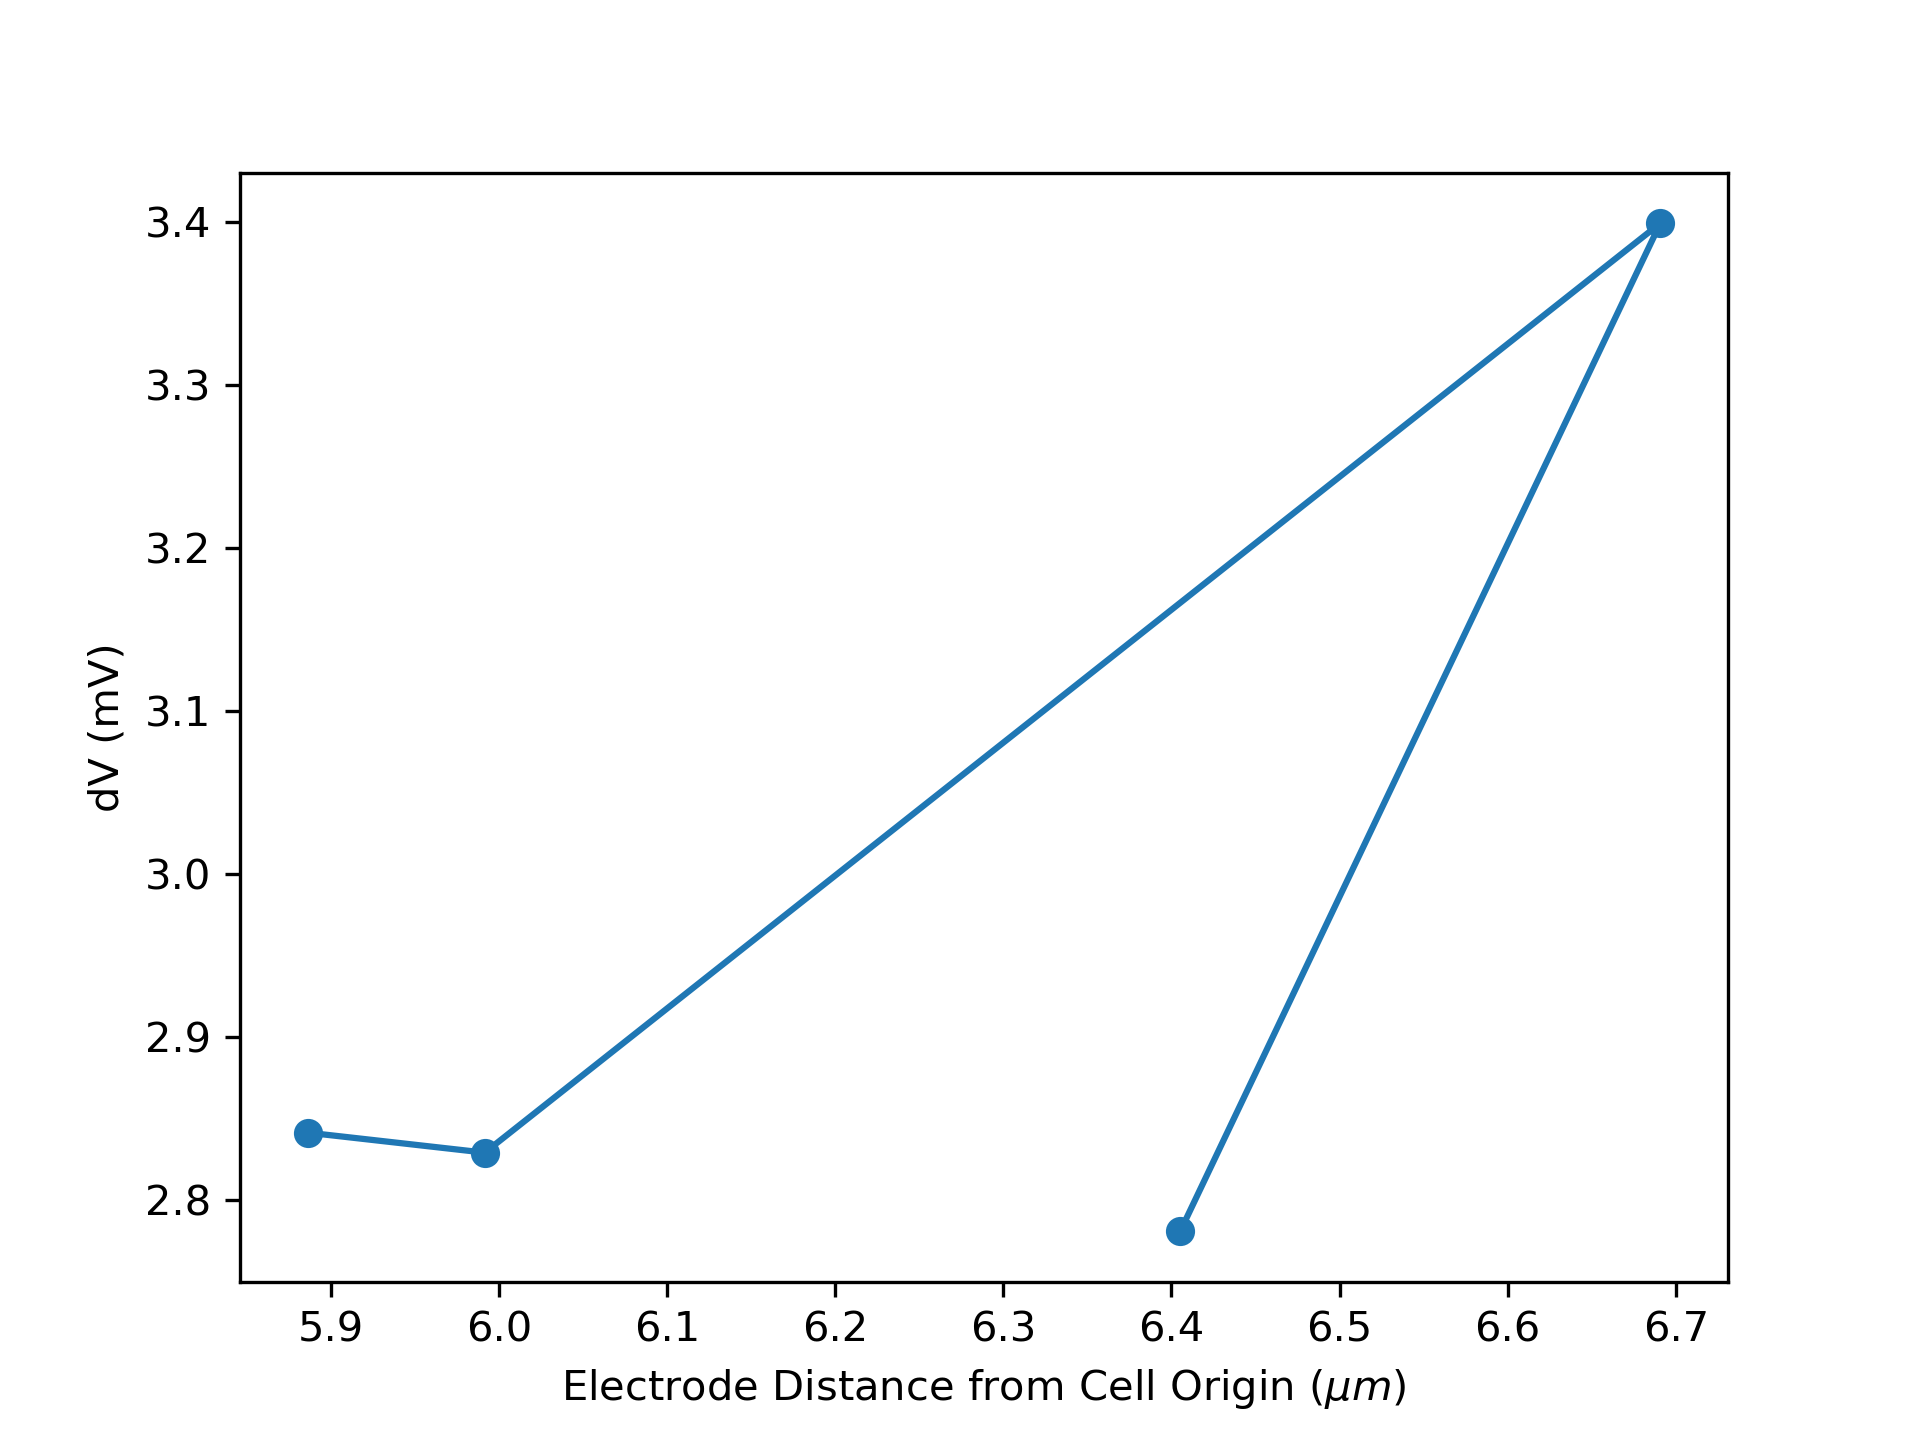
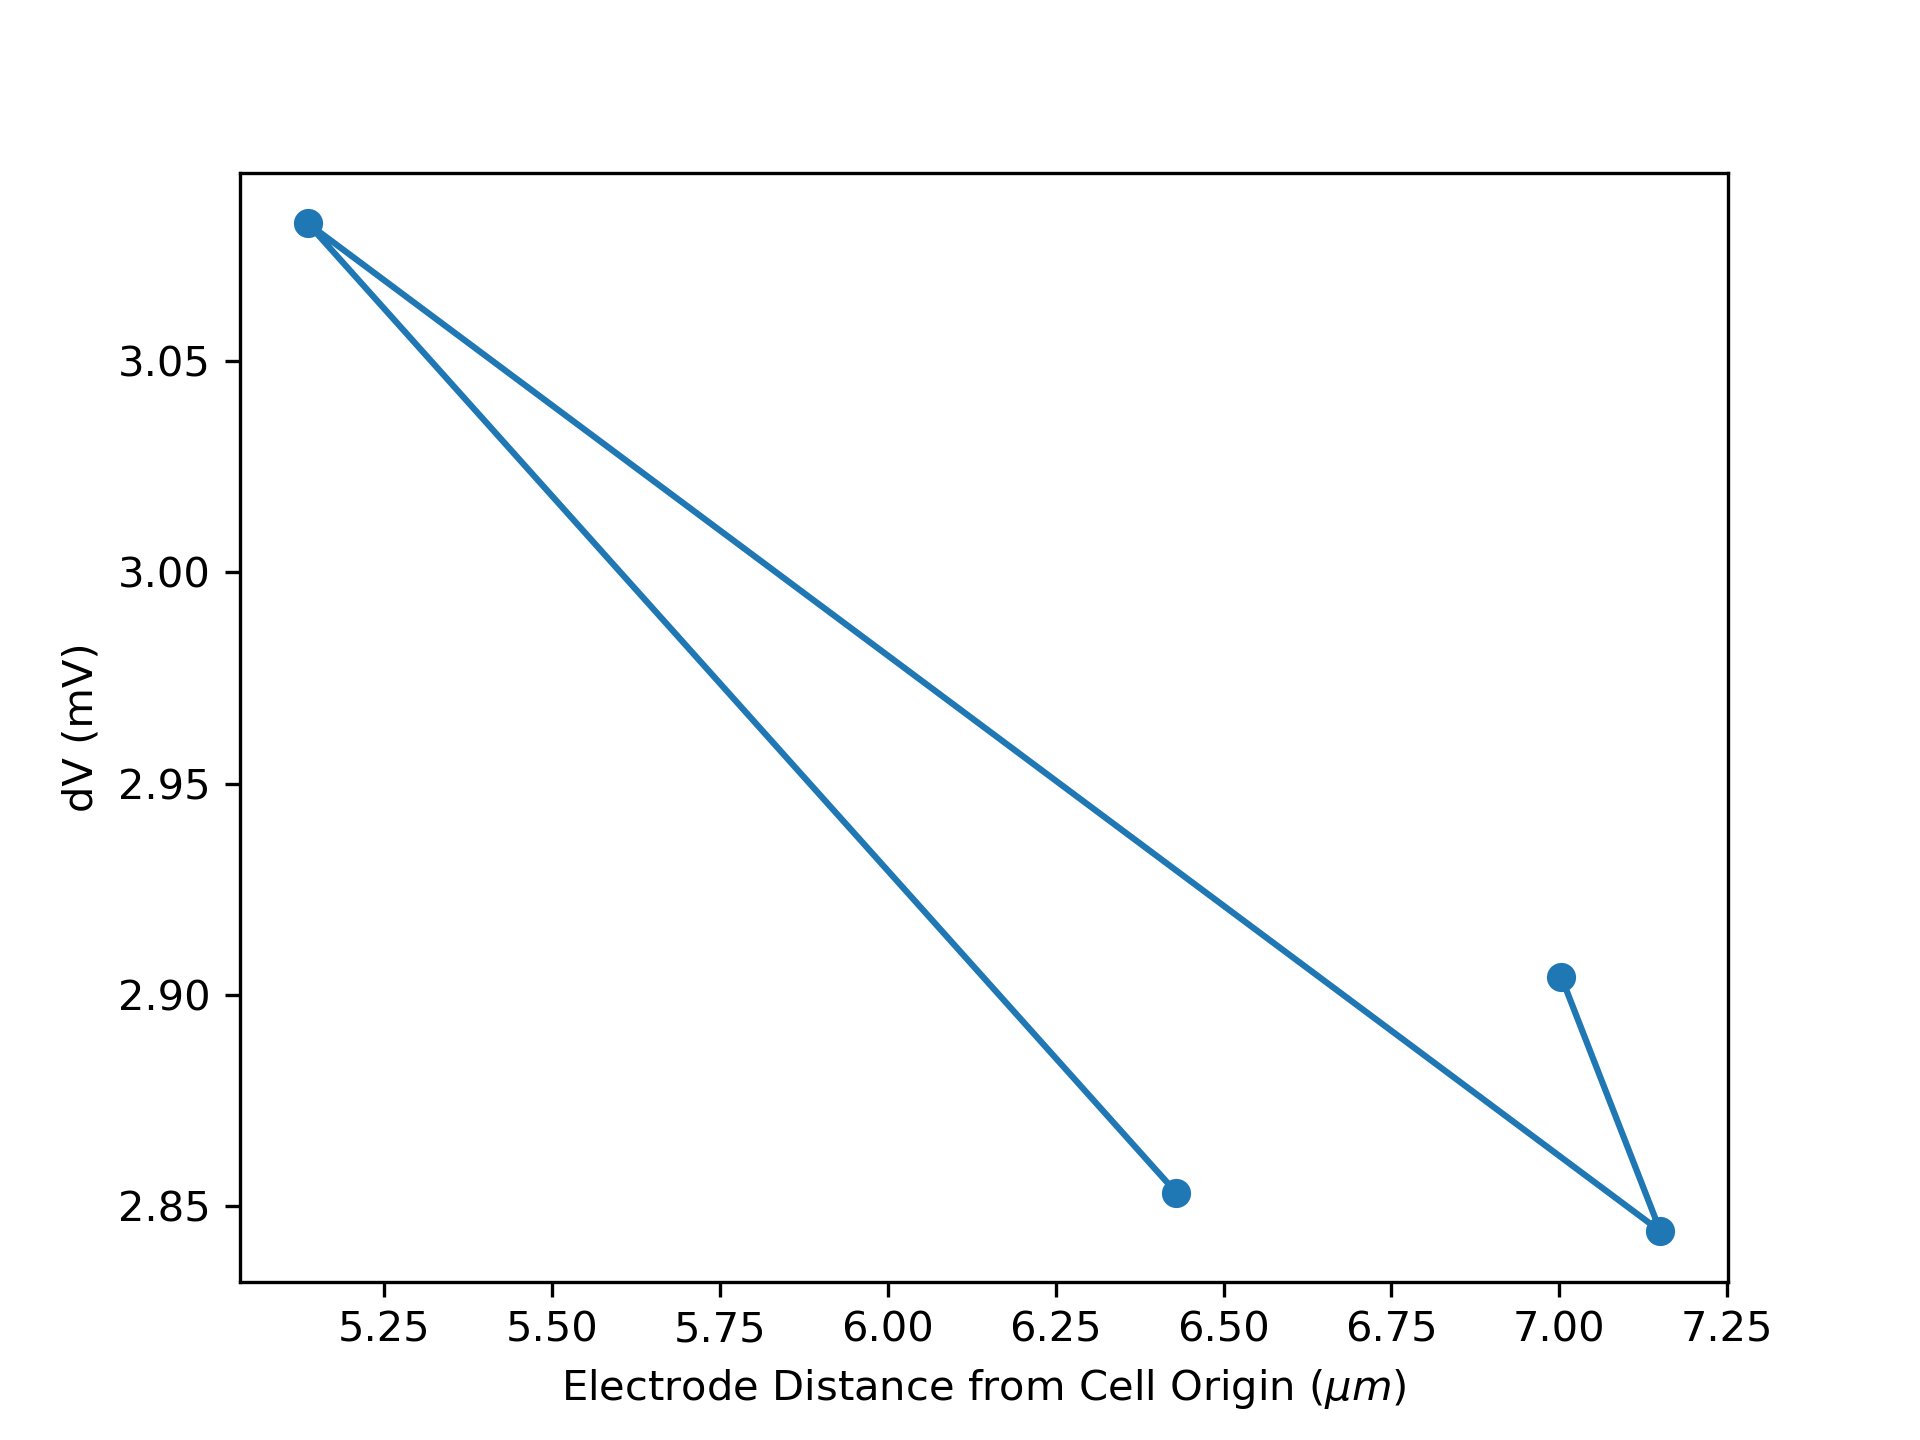
Producing better figures for hallermann cell

diff --git a/hallermann_single_source_pulse.py b/hallermann_single_source_pulse.py
@@ -15,11 +15,11 @@ extPotSim = ExternalPotentialSim(cellsim_Hallermann_params)
 
 
 # Test parameters
-current_amps = [1e4, -1e4, 5e3]  # uA
-positions = [np.array([[200, 0, -40], ], dtype=float),
-             np.array([[200, 0, 0], ], dtype=float),
-             np.array([[-125, 0, -880], ], dtype=float),
-             np.array([[-230, 0, 175], ], dtype=float)]
+current_amps = [1e4, -1e4, -5e3, -4e3, -3e3,  -1e3]  # uA
+positions = [np.array([[200, 0, 700], ], dtype=float),
+             np.array([[-215, 0, 860], ], dtype=float),
+             np.array([[-150, 0, -180], ], dtype=float),
+             np.array([[-20, 0, 400], ], dtype=float)]
 
 extPotSim.run_ext_sim(cell_models_folder, monophasic_pulse_params, current_amps,
                       positions, np.array([0, 83, 300]), 5)

diff --git a/main.py b/main.py
@@ -332,6 +332,8 @@ class ExternalPotentialSim:
         self.cell_plot_colors = idx_clr = {idx: [
             'b', 'cyan', 'orange', 'green', 'purple'][num] for num, idx in enumerate(self.cell_plot_idxs)}
 
+        # self.morph_ax_params =
+
         self.plot_morphology(measure_idxs)
         self.plot_external_field()
         self.plot_membrane_potential()
